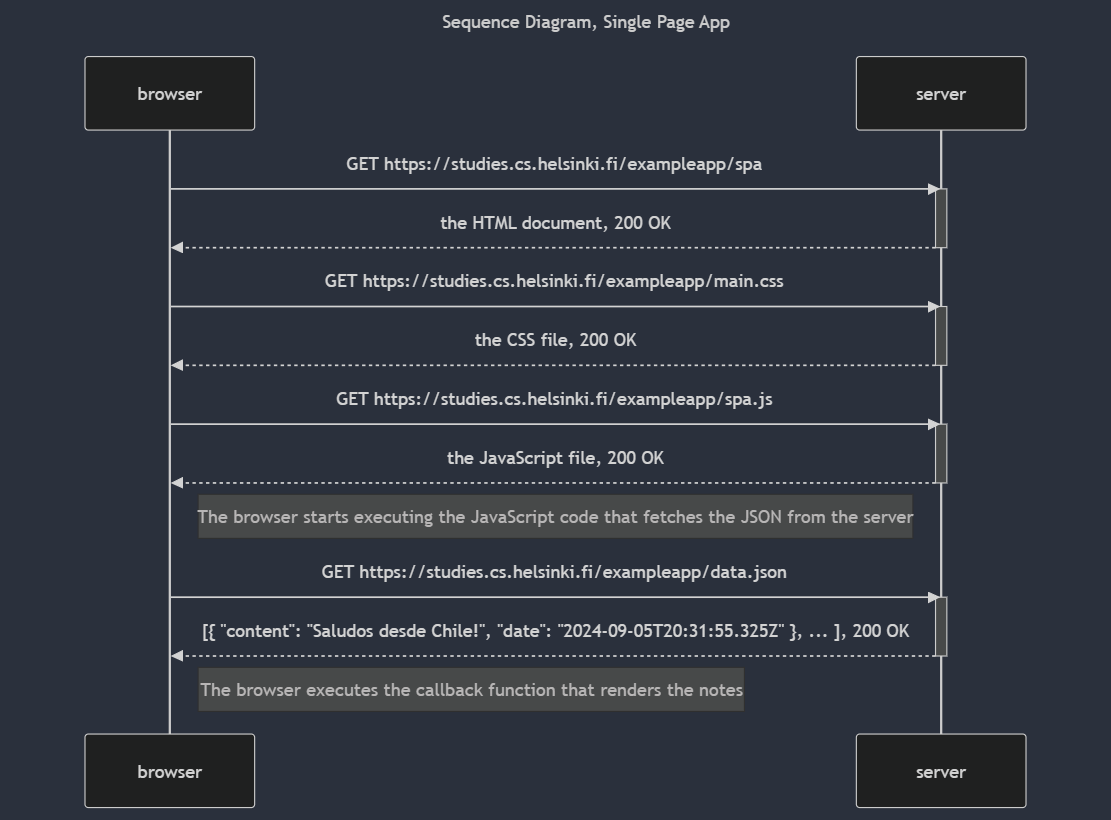
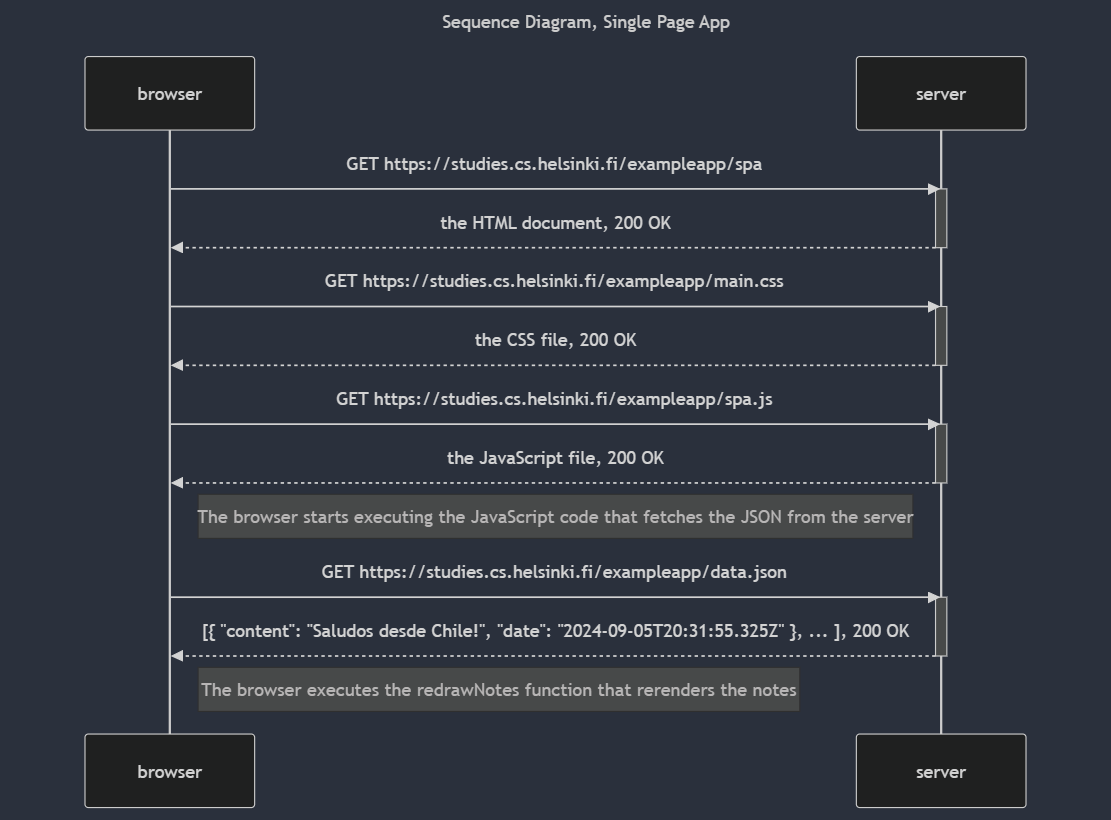
minor fixes for 0.5

Changed region(s): [[0.1836, 0.7927, 0.7345, 0.8841]]

diff --git a/osa0/0.5 Single Page App/sequenceDiagram_Singe_Page_app.md b/osa0/0.5 Single Page App/sequenceDiagram_Singe_Page_app.md
@@ -30,5 +30,5 @@ sequenceDiagram
     server-->>browser: [{ "content": "Saludos desde Chile!", "date": "2024-09-05T20:31:55.325Z" }, ... ], 200 OK
     deactivate server    
 
-    Note right of browser: The browser executes the callback function that renders the notes 
+    Note right of browser: The browser executes the redrawNotes function that rerenders the notes 
 ```
